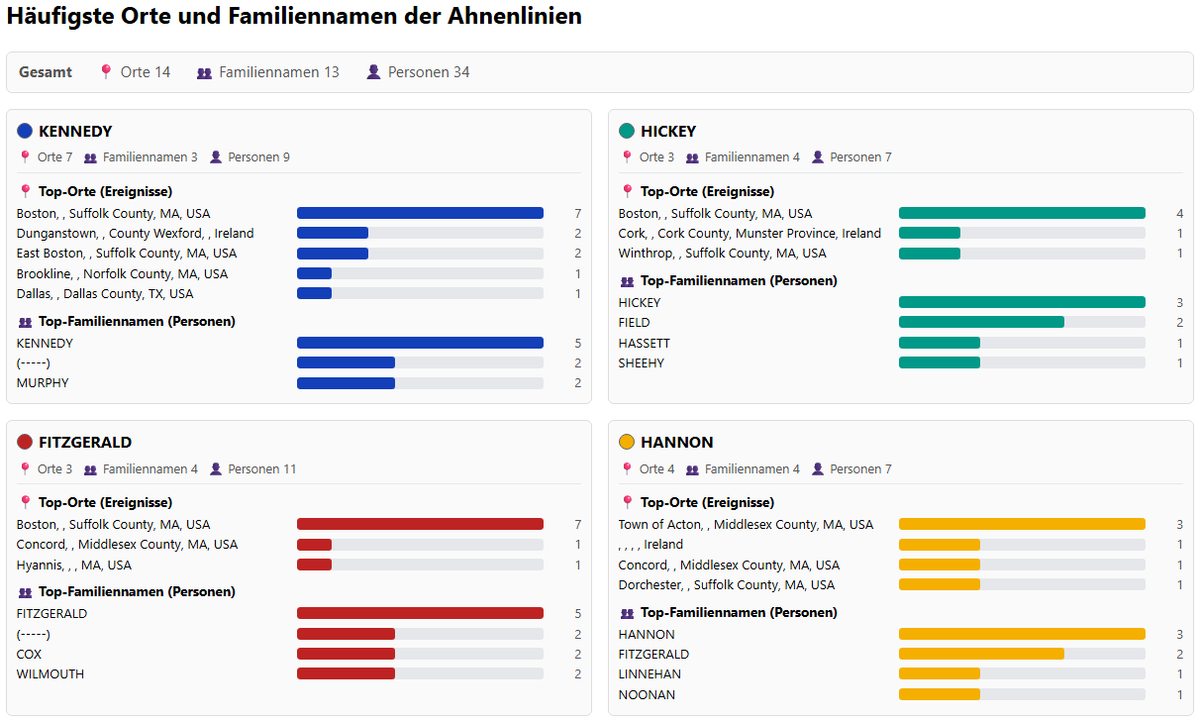
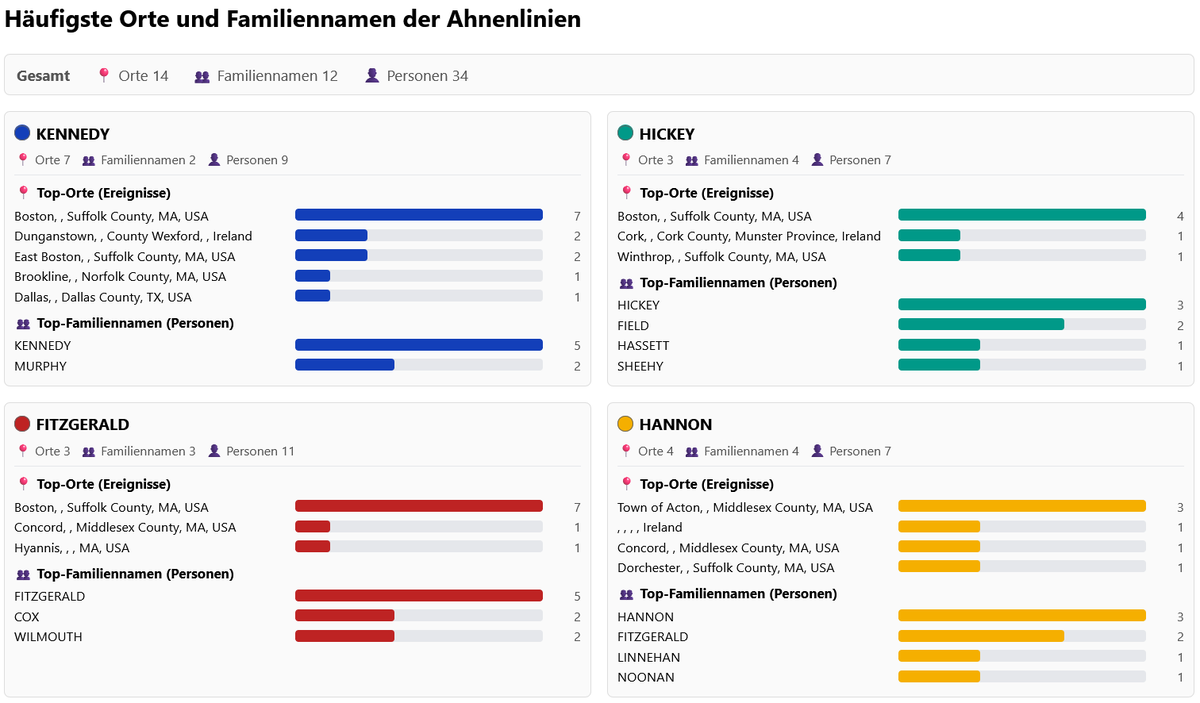
ignore unknown names in documentation example.

diff --git a/KekuleHtml/Services/ResearchFocusBuilder.cs b/KekuleHtml/Services/ResearchFocusBuilder.cs
@@ -124,12 +124,15 @@ public static class ResearchFocusBuilder
         "FNU",
         // Maiden Name Unknown
         "MNU",
-        "UNK",
         // Do Not Know
         "DNK",
+        // Unknownn
+        "UNK",
         "UNKNOWN",
         "UNBEKANNT",
-        "?"
+        "?",
+        // from Kennedy gedcom example
+        "(-----)"
     }.ToFrozenSet(StringComparer.Ordinal);
 
     /// <summary>
